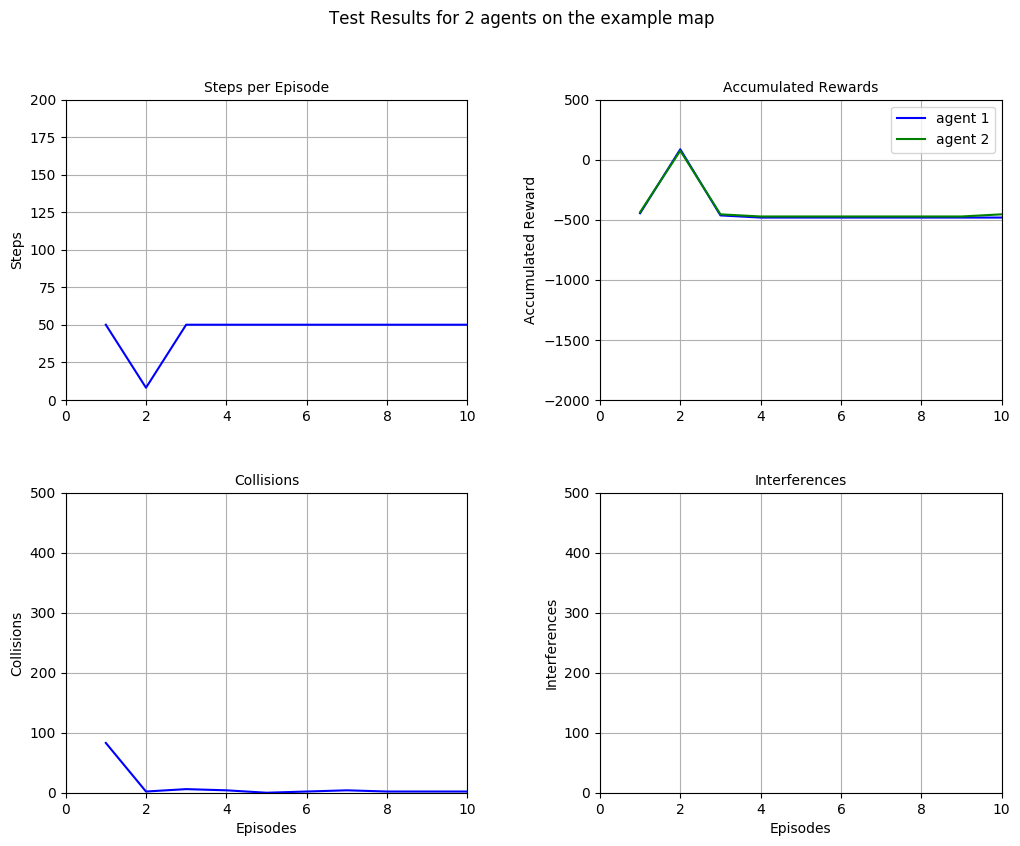
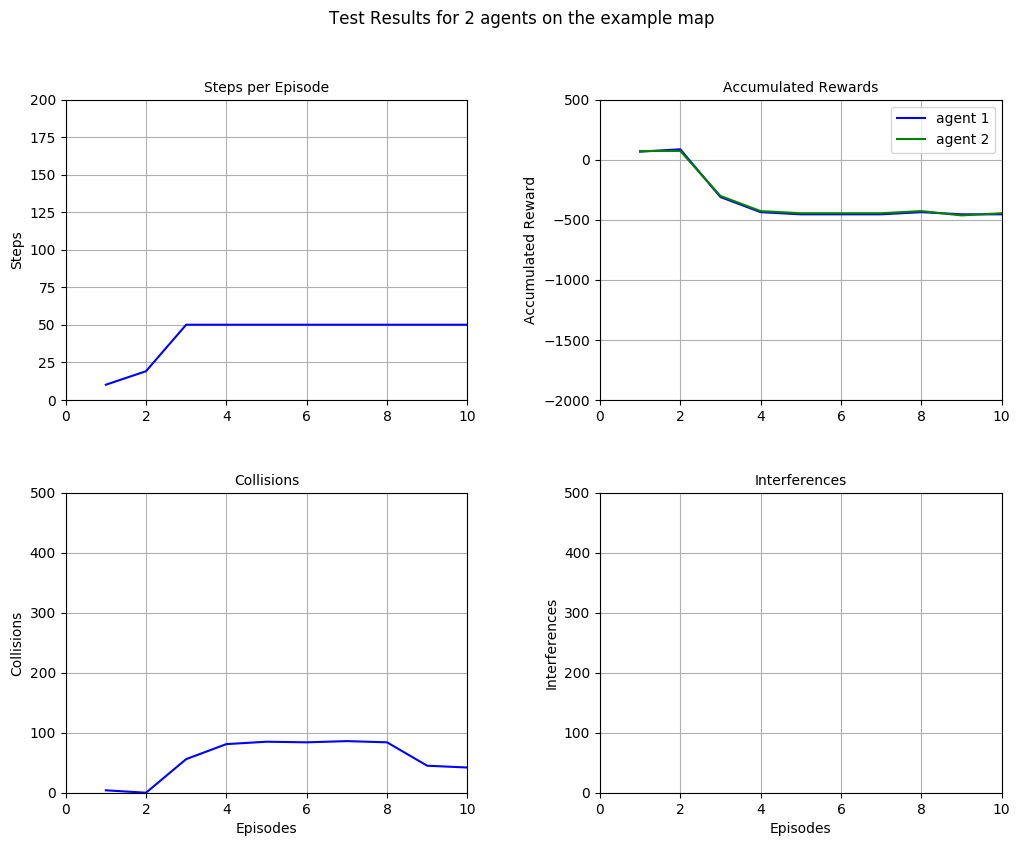
added a save function to logger + map entry.

diff --git a/custom_logger.py b/custom_logger.py
@@ -1,12 +1,13 @@
 import pandas as pd
 import numpy as np
+import datetime
 
 
 # Log results into a data frame
 class CustomLogger:
 
     def __init__(self, nagents):
-        self.cols = ['Shield', '# iterations']
+        self.cols = ['Map', 'Shield', '# iterations']
         self.base = ['ep', 'avg_steps', 'avg_coll']
         self.ext = ['_train', '_test']
 
@@ -21,12 +22,13 @@ class CustomLogger:
         self.df = pd.DataFrame(columns=self.cols)
 
     # construct a row and add it to the data frame
-    def log_results(self, test_data, train_data, shielding, iterations, save=False, display=False):
+    def log_results(self, map, test_data, train_data, shielding, iterations, save=False, display=False):
 
         entry = {}
 
+        entry['Map'] = map
         entry['Shield'] = int(shielding)
-        entry[self.cols[1]] = iterations
+        entry[self.cols[2]] = iterations
         ep_train = train_data[0]['episodes']
         ep_test = test_data[0]['episodes']
 
@@ -44,17 +46,22 @@ class CustomLogger:
                 sum_inter[i] += np.sum(train_data[it]['interferences'][i, :])
 
         # train data
-        entry[self.cols[2]] = ep_train
-        entry[self.cols[3]] = sum_steps / (ep_train)
-        entry[self.cols[4]] = sum_coll / (ep_train)
+        entry[self.cols[3]] = ep_train
+        entry[self.cols[4]] = sum_steps / (ep_train)
+        entry[self.cols[5]] = sum_coll / (ep_train)
 
-        cur_ind = 5
+        cur_ind = 6
         for i in range(self.nagents):
             entry[self.cols[cur_ind]] = sum_acc[i] / (ep_train)
             entry[self.cols[cur_ind + 1]] = sum_inter[i] / (ep_train)
             cur_ind += 2
 
         # aggregate data testing
+        sum_steps = 0
+        sum_coll = 0
+        sum_acc = np.zeros([self.nagents])
+        sum_inter = np.zeros([self.nagents])
+
         for it in range(iterations):
             sum_steps += np.sum(test_data[it]['steps'])
             sum_coll += np.sum(test_data[it]['collisions'])
@@ -77,6 +84,7 @@ class CustomLogger:
 
         print(self.df)
 
-    def save(self):
+    def save(self, alg):
         # save the dataframe to a csv file.
-        pass
+        date_str = datetime.datetime.now().strftime('_%H:%M_%d_%b_%Y')
+        self.df.to_csv(alg + '_' + str(self.nagents) + date_str + '.csv', sep='\t', encoding='utf-8', index=False)

diff --git a/run_exp_CQ.py b/run_exp_CQ.py
@@ -4,10 +4,10 @@ from custom_logger import CustomLogger
 import numpy as np
 
 # map_names = ['example', 'ISR', 'Pentagon', 'MIT', 'SUNY']
-map_names = ['example']
+map_names = ['ISR']
 
 agents = 2
-shielding = False
+shielding = True
 steps_test = 50
 ep_test = 10
 iterations = 1
@@ -55,4 +55,6 @@ for m in map_names:
         cq.reset()
 
     # Log information
-    logger.log_results(test_data, train_data, shielding, iterations)
+    logger.log_results(m, test_data, train_data, shielding, iterations)
+
+logger.save('CQ')

diff --git a/plotting.py b/plotting.py
@@ -47,10 +47,10 @@ def plot_v2(data, agents, map='example', test=False, shielding=False, save=True,
     ax04.set_ylim(0, 500)
 
     # set x-limits
-    ax01.set_xlim(0, data['episodes'])
-    ax02.set_xlim(0, data['episodes'])
-    ax03.set_xlim(0, data['episodes'])
-    ax04.set_xlim(0, data['episodes'])
+    ax01.set_xlim(1, data['episodes'])
+    ax02.set_xlim(1, data['episodes'])
+    ax03.set_xlim(1, data['episodes'])
+    ax04.set_xlim(1, data['episodes'])
 
     # Turn on grids
     ax01.grid(True)
